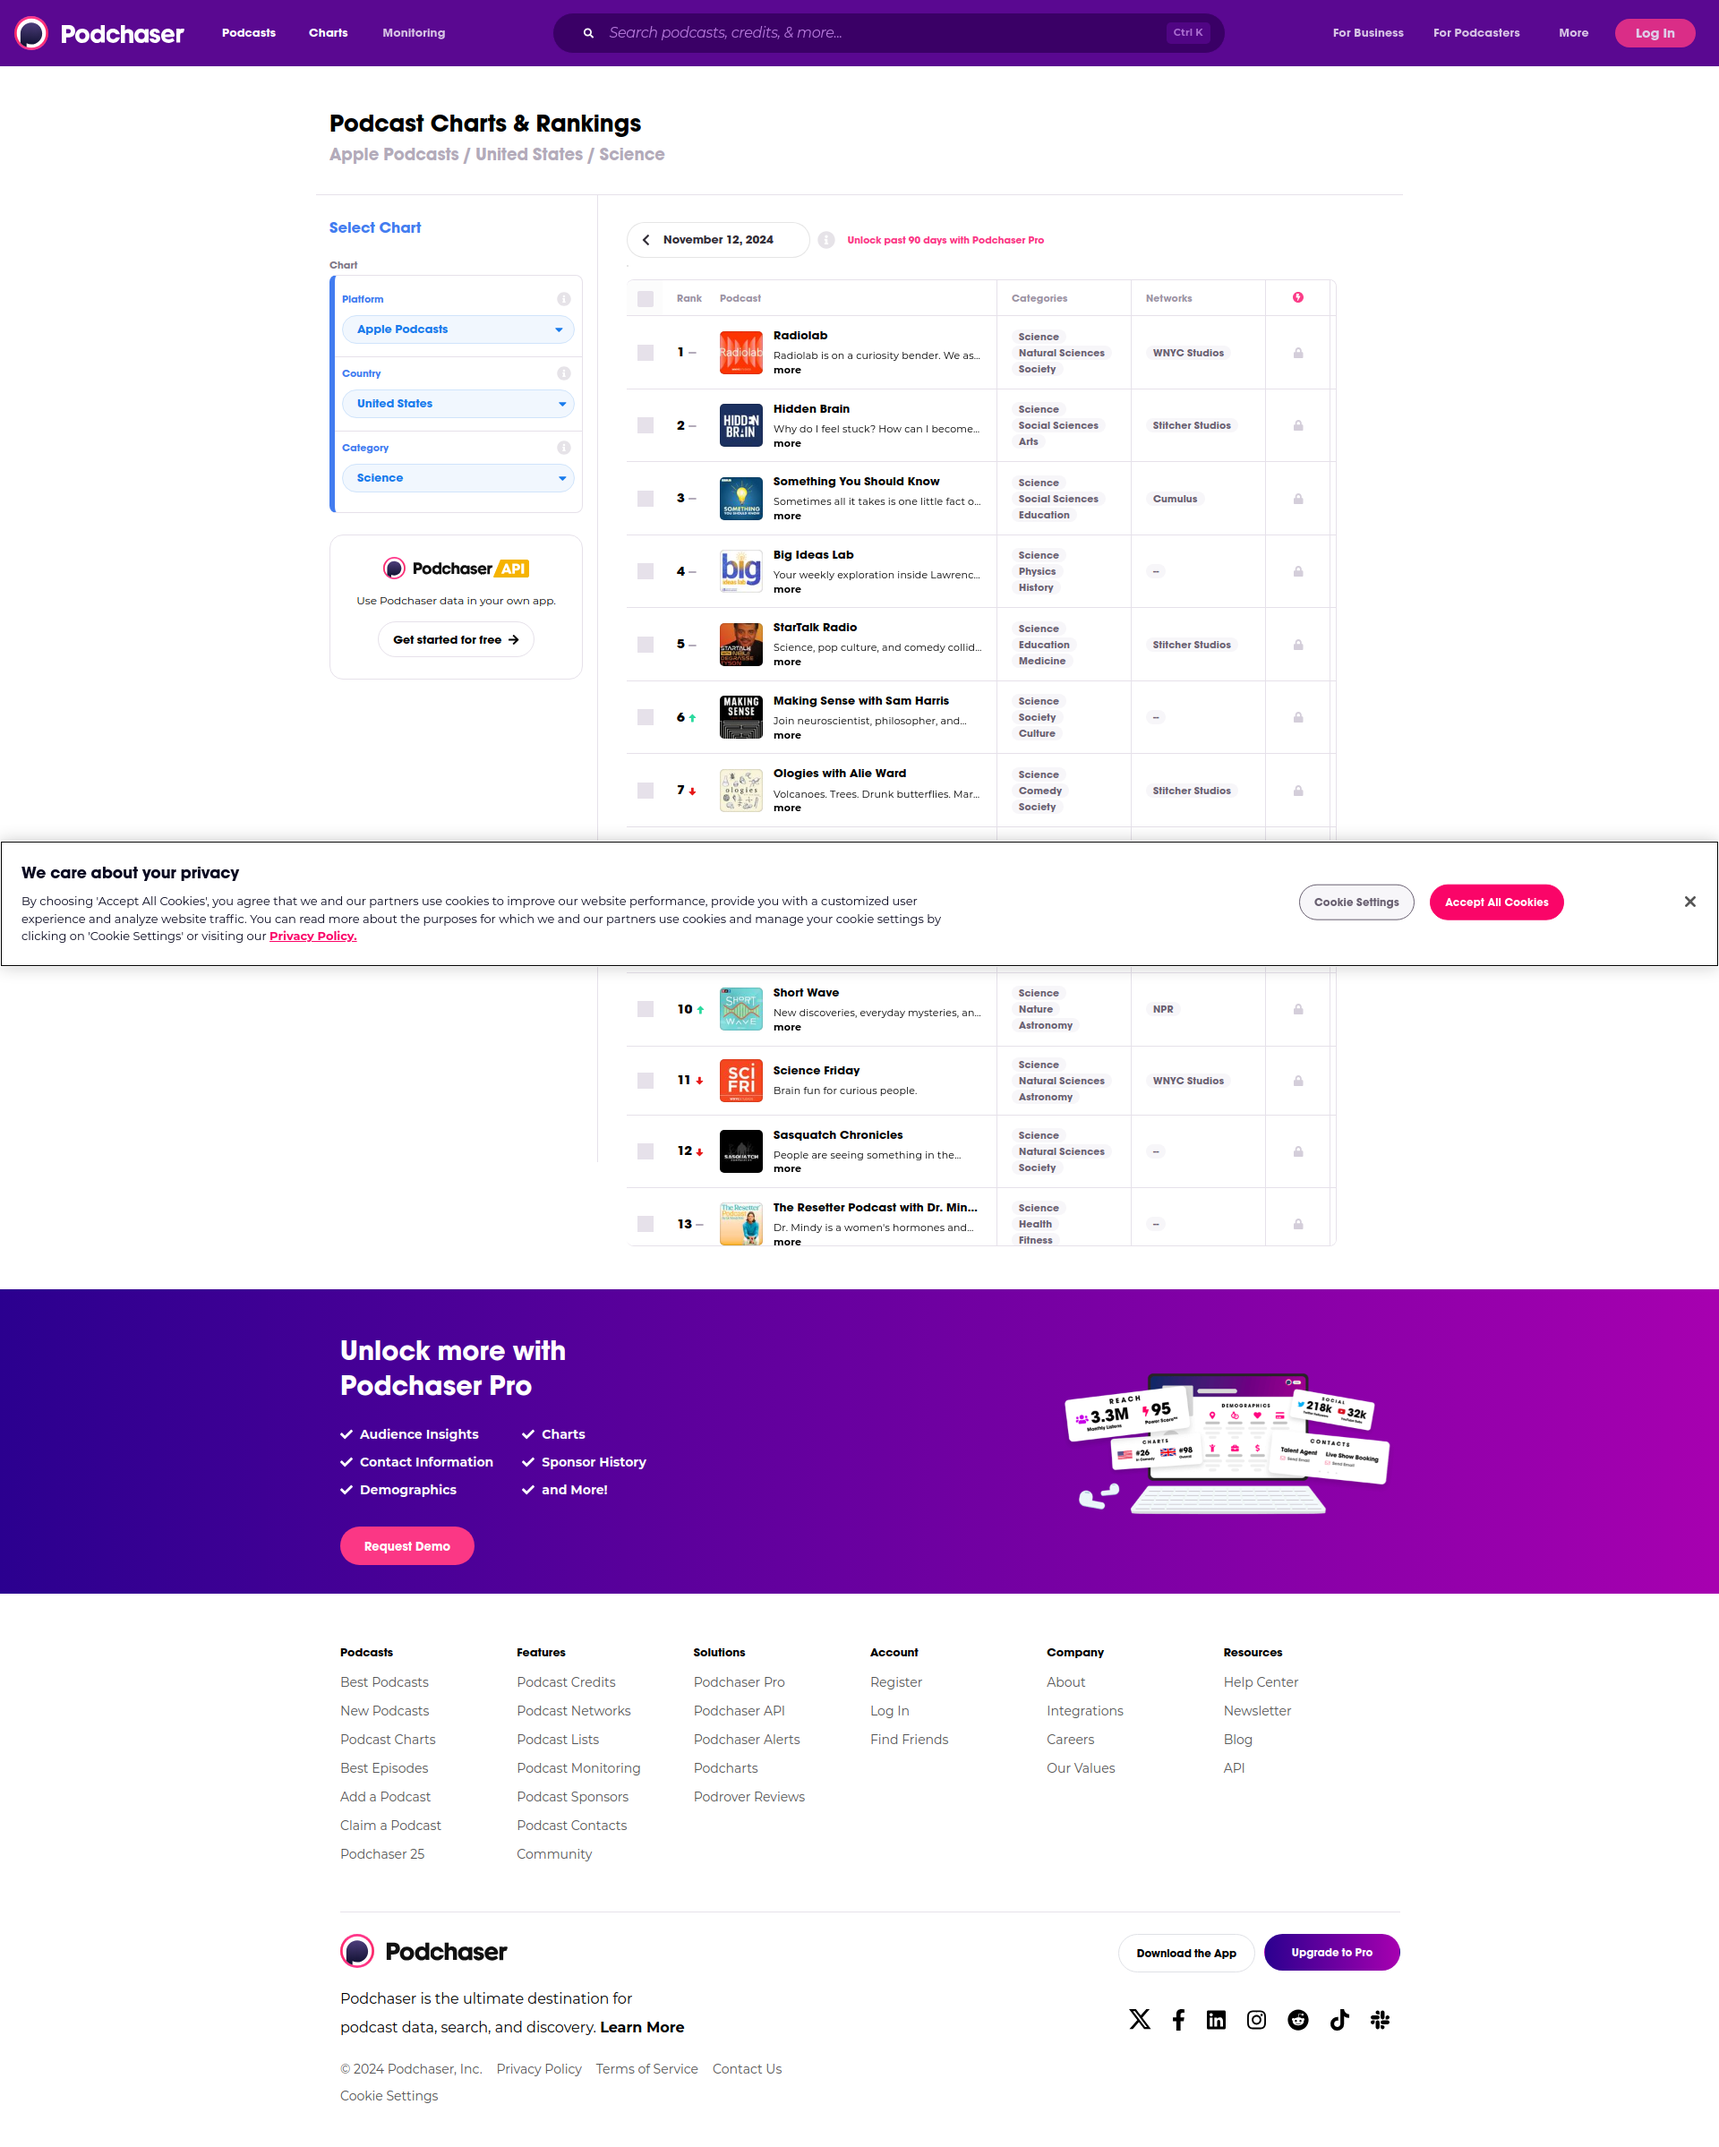
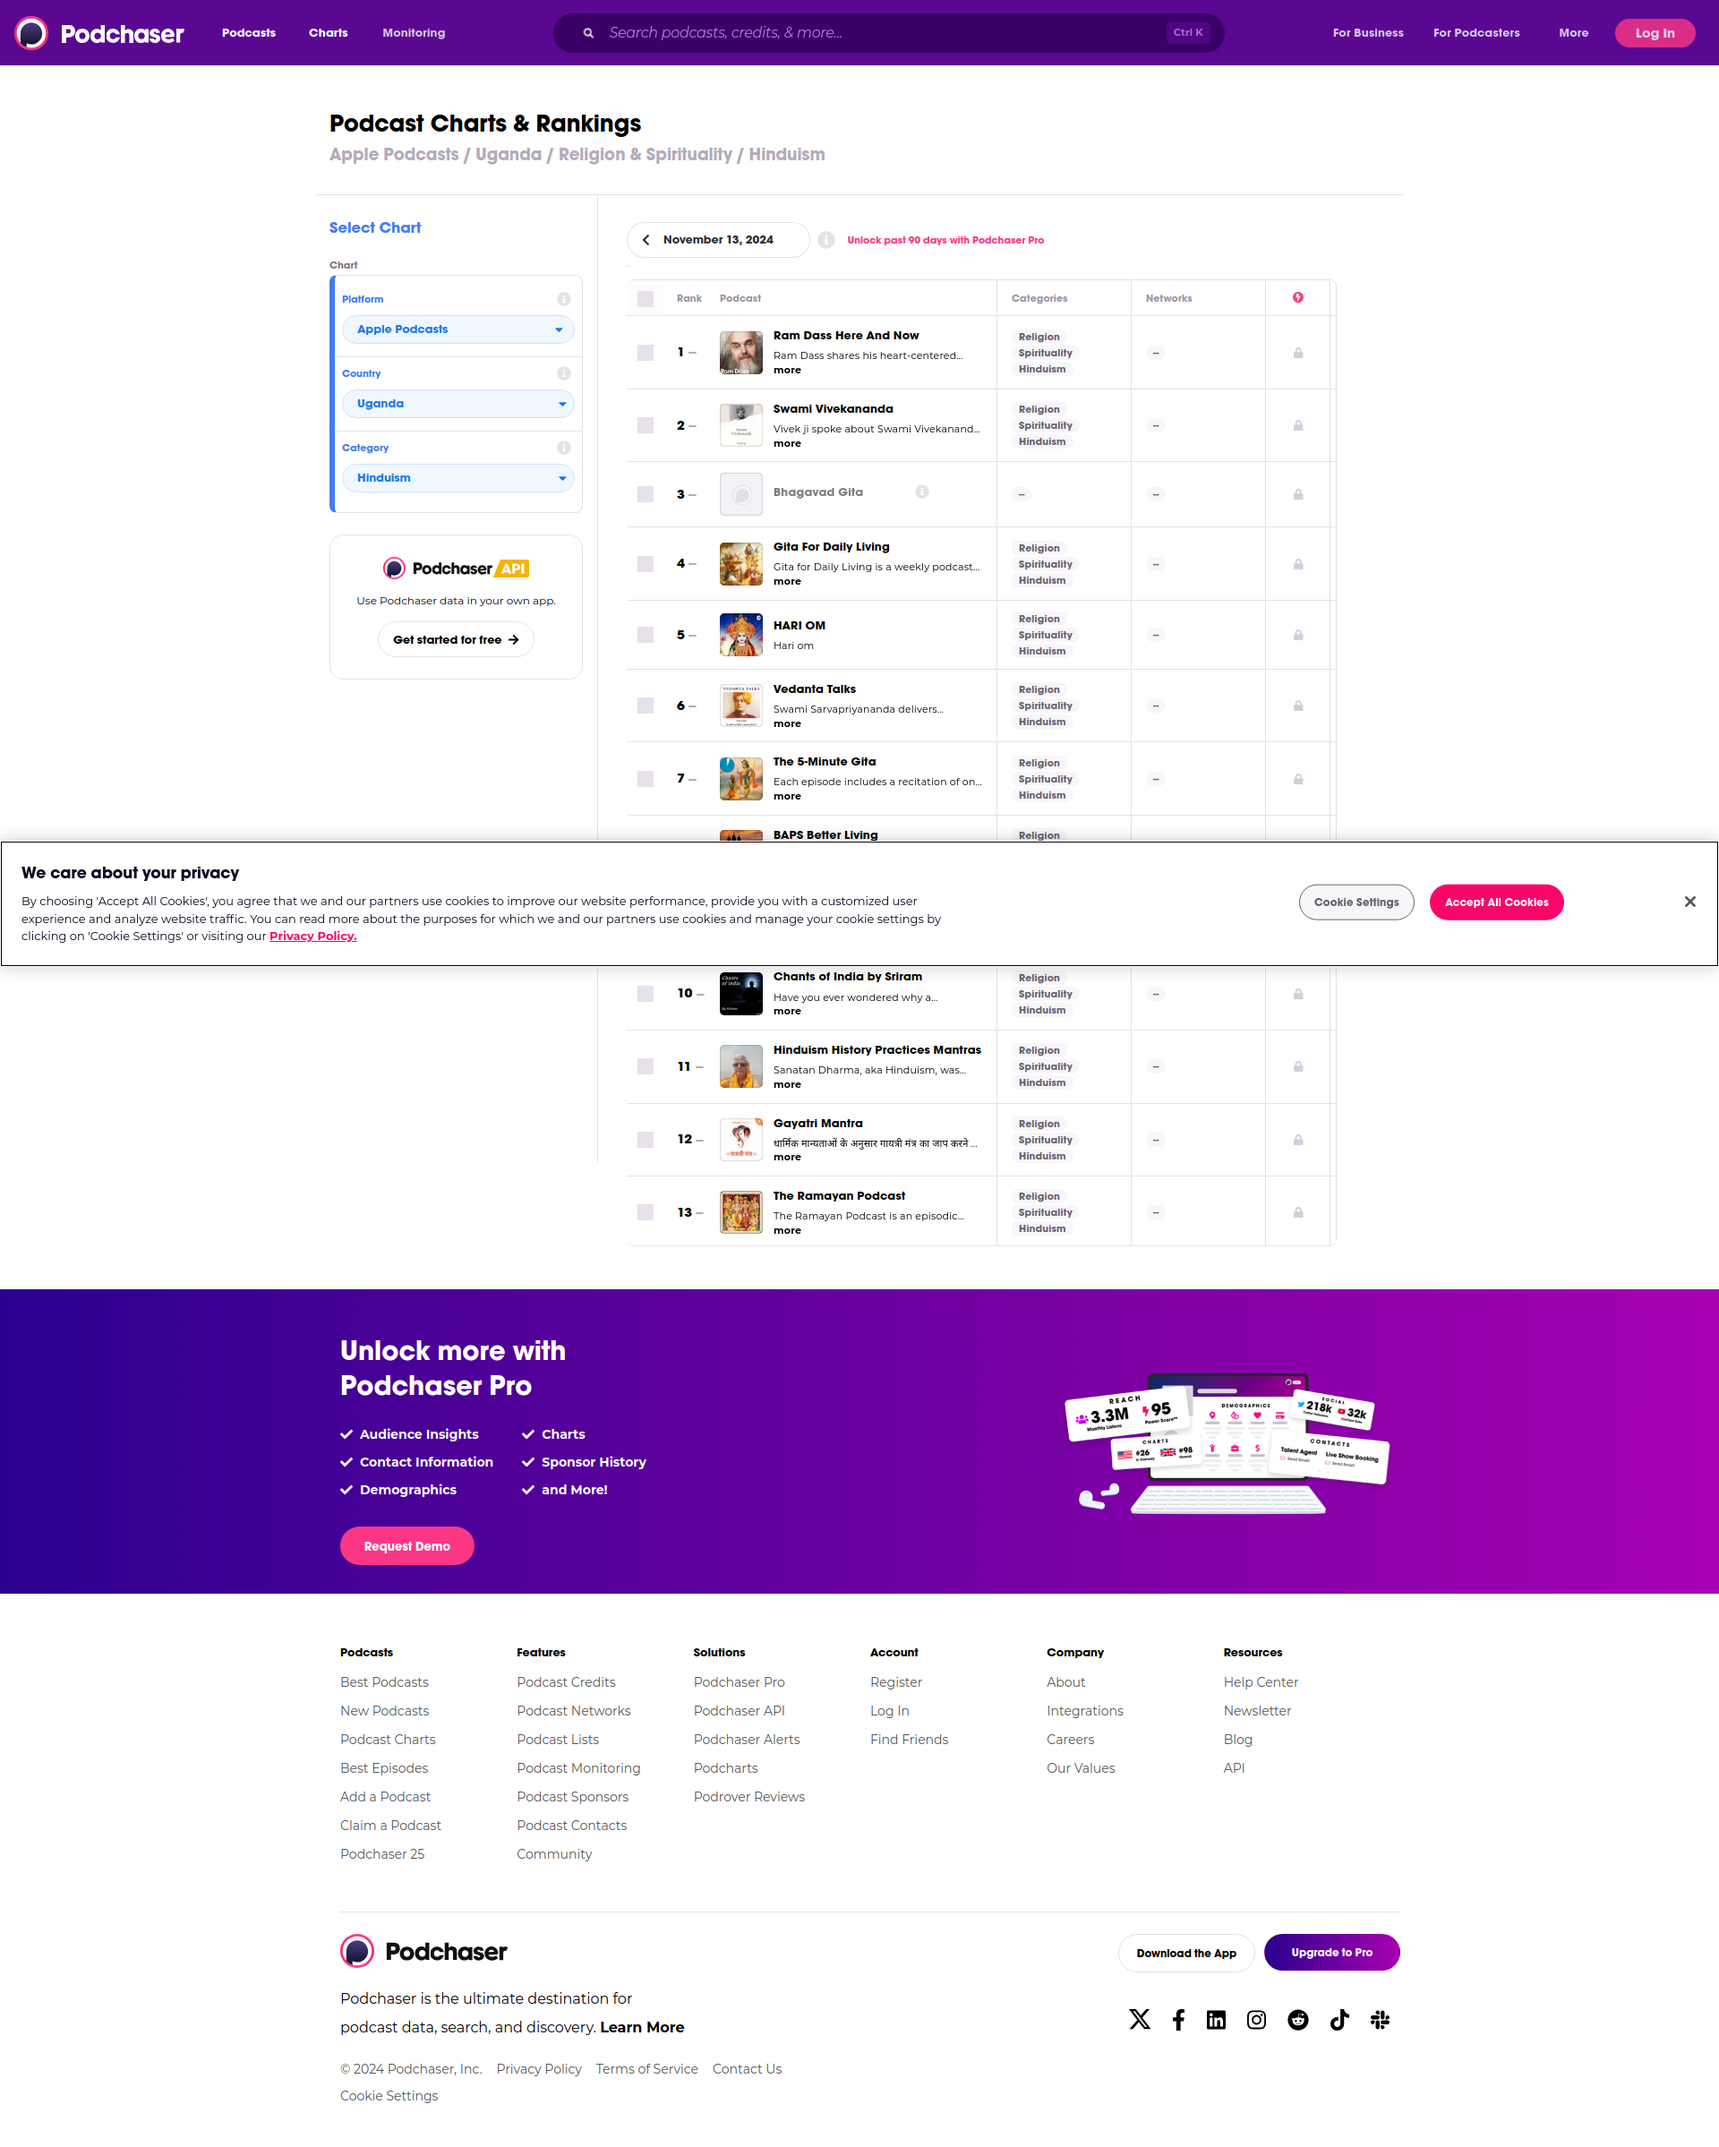
Working on scrapping

diff --git a/routes/rest/scrapping.js b/routes/rest/scrapping.js
@@ -7,7 +7,7 @@ puppeteer.use(Stealth());
 module.exports = {
   async getScrapData(req, res) {
     try {
-      const url = "https://www.podchaser.com/charts/apple/us/science?date=2024-11-11";
+      const url = "https://www.podchaser.com/charts/apple/ug/religion%20&%20spirituality/hinduism?date=2024-11-12";
 
       // Launch Puppeteer
       const browser = await puppeteer.launch();
@@ -43,11 +43,12 @@ module.exports = {
       // Extract table rows (for podcast data)
       const podcastData = [];
       $('tbody tr').each((i, row) => {
+        if(i>=10) return false;
         // const rank = $(row).find('td').eq(0).find('span._sn01r5').text().trim() || "N/A"; // Default to "N/A" if rank is missing
         const rank = $(row).find('._sn01r5').text().trim()
-        const podcastLink = $(row).find('td').eq(1).find('a').attr('href');
-        const podcastTitle = $(row).find('td').eq(1).find('a').text().trim();
-        const podcastDescription = $(row).find('td').eq(1).find('p').text().trim();
+        const podcastLink = $(row).find('._1x1973c').attr('href');
+        const podcastTitle = $(row).find('._1x1973c').text().trim();
+        const podcastDescription = $(row).find('div._1xligvk').find('p._15pjoyp').text().trim(); // Extract description
         
         const categoryLinks = [];
         $(row).find('td').eq(2).find('a').each((i, category) => {
